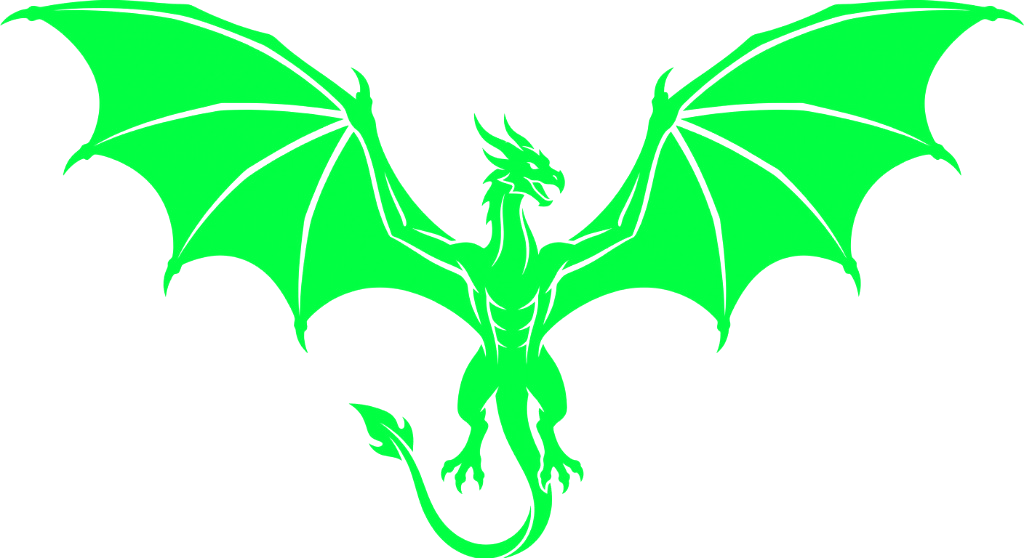
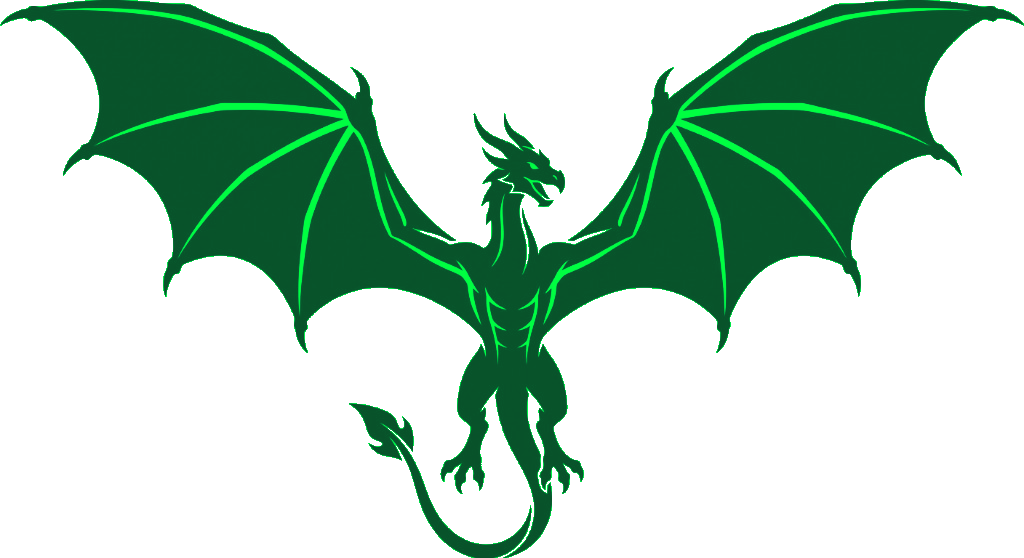
updates

diff --git a/src/index.css b/src/index.css
@@ -227,7 +227,7 @@ a.btn {
   filter: drop-shadow(0 0 22px var(--matrix-glow));
 }
 
-/* Colored dragon PNG (transparent outside + leg gap); intrinsic 1024×558 */
+/* Green dragon PNG; intrinsic 1024×558 (matches dragon-original.png) */
 .dragon-emblem-img {
   display: block;
   width: 100%;
